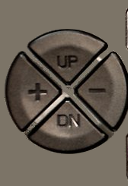
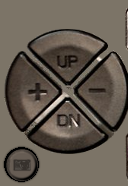
Modded simulator graphics for snapshot capabilities

Changed region(s): [[0.0, 0.7796, 0.3125, 0.9946]]

diff --git a/trunk/src/simulatordialog.cpp b/trunk/src/simulatordialog.cpp
@@ -128,7 +128,13 @@ void simulatorDialog::setupTimer()
 
 void simulatorDialog::onButtonPressed(int value)
 {
-  buttonPressed = value;
+  if (value==Qt::Key_Print) {
+      QString fileName = QString("./screenshot-%1.png").arg(++screenshotIdx);
+      qDebug() << "Screenshot" << fileName;
+      ui->lcd->makeScreenshot(fileName);      
+  } else {
+      buttonPressed = value;
+  }
 }
 
 void simulatorDialog::onTimerEvent()
@@ -220,13 +226,6 @@ void simulatorDialog::onTimerEvent()
     if (beepShow) beepShow--;
 
   }
-}
-
-void simulatorDialog::on_screenshotButton_clicked()
-{
-  QString fileName = QString("./screenshot-%1.png").arg(++screenshotIdx);
-  qDebug() << "Screenshot" << fileName;
-  ui->lcd->makeScreenshot(fileName);
 }
 
 void simulatorDialog::centerSticks()

diff --git a/trunk/src/cursorwidget.h b/trunk/src/cursorwidget.h
@@ -62,6 +62,9 @@ class cursorWidget : public QWidget {
           else if (pnpoly(6,plusx,plusy,(float)x,(float)y)==1) {
             setStyleSheet("background:url(:/images/9xcursplus.png);");
             emit buttonPressed(Qt::Key_Left);
+          } else if (sqrt(((float)x-22)*((float)x-22)+((float)y-165)*((float)y-165))<17) {
+            setStyleSheet("background:url(:/images/9xcursphoto.png);");
+            emit buttonPressed(Qt::Key_Print);
           }
         }
         // QWidget::mousePressEvent(event);

diff --git a/trunk/src/simulatordialog.h b/trunk/src/simulatordialog.h
@@ -100,7 +100,6 @@ private slots:
     void on_trimHRight_valueChanged(int);
     void on_trimVRight_valueChanged(int);
     void onTimerEvent();
-    void on_screenshotButton_clicked();
 };
 
 #endif // SIMULATORDIALOG_H
